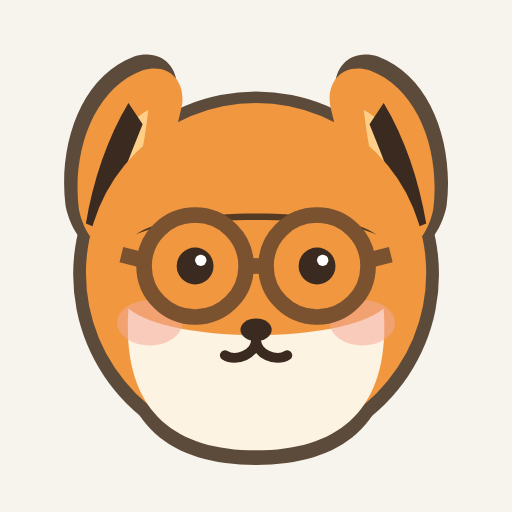
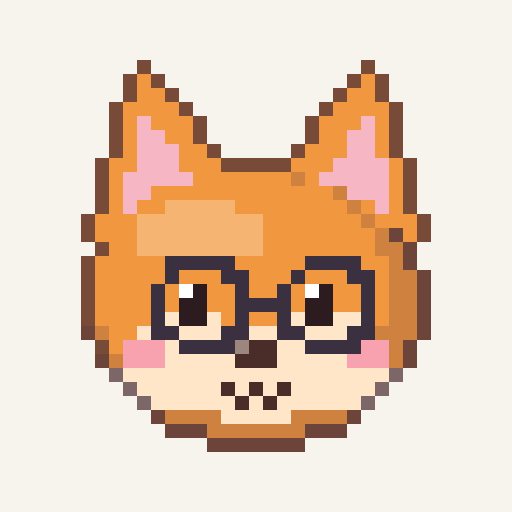
픽셀 화면 이동 매끄럽게, 앱 아이콘 도트로
- 걷는 도중 목적지가 바뀌면 지금 자리에서 이어 걷는다 (가던 칸 처음으로 되돌아가 튕기던 문제)
- 목적지는 두 번 연달아 같게 읽혔을 때만 바꾼다 (자리 두 곳 사이에서 왔다 갔다 하던 문제)
- 길을 못 찾으면 순간이동하지 않고 제자리에서 다음 판단을 기다린다
- 보는 방향은 실제로 움직이는 쪽으로, 퇴근·점심 때는 엘리베이터까지 걸어가서 사라진다
- 측정(산책+회의 60초): 한 프레임 큰 이동 202→53회(최대 368→14.5px), 방향 반전 358→95회
- 앱 아이콘·파비콘을 픽셀 사장님(안경 쓴 여우) 얼굴로 교체 (buildHead 추가)

Claude-Session: https://claude.ai/code/session_011mdzGhoRQRMpyoyZJmjdHo

diff --git a/index.html b/index.html
@@ -14206,14 +14206,26 @@ function fixGoal(F,a,g){
 }
 function setGoal(F,a,g,now){
   if(sameGoal(a.goal,g)) return;
-  fixGoal(F,a,g); a.goal=g;
+  fixGoal(F,a,g);
   var target = g.seat ? { c:a.seat.c, r:a.seat.r } : { c:g.c, r:g.r };
-  var from = a.sitting ? { c:a.seat.c, r:a.seat.r } : currentTile(a);
+  var walking = !!a.path, from;
+  if(a.sitting) from = { c:a.seat.c, r:a.seat.r };
+  else if(walking) from = a.path[Math.min(a.step+1, a.path.length-1)];     // 가던 칸에서 이어 간다
+  else from = currentTile(a);
   var path = PO.bfs({c:from.c,r:from.r}, target, F.map);
-  if(!path || path.length<2){ arrive(a); return; }
-  a.path=path; a.step=0; a.stepStart=now; a.fromSeat=a.sitting; a.sitting=false; a.onFurn=false;
+  if(!path){ return; }                                                     // 길이 없으면 제자리에서 다음 판단을 기다린다
+  a.goal=g;
+  if(walking) path.unshift({c:from.c,r:from.r});                           // 첫 걸음은 지금 자리 → 가던 칸
+  if(path.length<2 && !walking && !a.sitting){ var p=goalPos(a,g), d=Math.abs(p.x-a.x)+Math.abs(p.feet-a.feet); if(d<2){ arrive(a); return; } path=[from,from]; }
+  if(path.length<2) path=[from,from];
+  // 지금 서 있는 곳(픽셀 좌표)에서 첫 칸까지 한 걸음 걷고, 그다음부터 칸을 따라간다
+  a.segA = a.sitting ? { x:a.seat.seatX, feet:a.seat.seatFeet } : { x:a.x, feet:a.feet };
+  var first = tilePos(a, path[1]); if(path.length===2) first = goalPos(a,g);
+  var dist = Math.abs(first.x-a.segA.x)+Math.abs(first.feet-a.segA.feet);
+  a.firstMs = Math.max(60, Math.min(a.stepMs*1.5, a.stepMs*dist/T));
+  a.path=path; a.step=0; a.stepStart=now; a.sitting=false; a.onFurn=false;
 }
-function placeAt(F,a,g){ fixGoal(F,a,g); a.goal=g; a.path=null; arrive(a); }
+function placeAt(F,a,g){ fixGoal(F,a,g); a.goal=g; a.path=null; a.pend=null; arrive(a); }
 function arrive(a){
   var g=a.goal; a.path=null; a.frame=0;
   if(!g) return;
@@ -14225,16 +14237,27 @@ function arrive(a){
 function step(a,now){
   if(now>a.nextBlink){ a.blinkUntil=now+150; a.nextBlink=now+2400+Math.random()*3600; }
   if(!a.path) return;
-  var k=(now-a.stepStart)/a.stepMs;
-  while(k>=1&&a.step<a.path.length-1){ a.step++; a.stepStart+=a.stepMs; k-=1; }
+  var dur=(a.step===0)?a.firstMs:a.stepMs, k=(now-a.stepStart)/dur;
+  while(k>=1&&a.step<a.path.length-1){ a.stepStart+=dur; a.step++; dur=a.stepMs; k=(now-a.stepStart)/dur; }
   if(a.step>=a.path.length-1){ arrive(a); return; }
   var t0=a.path[a.step], t1=a.path[a.step+1], A=tilePos(a,t0), Bp=tilePos(a,t1);
-  if(a.step===0 && a.fromSeat) A={ x:a.seat.seatX, feet:a.seat.seatFeet };
+  if(a.step===0 && a.segA) A=a.segA;
   if(a.step===a.path.length-2) Bp=goalPos(a,a.goal);
   a.x=A.x+(Bp.x-A.x)*k; a.feet=A.feet+(Bp.feet-A.feet)*k;
-  a.dir = t1.c>t0.c?'right' : t1.c<t0.c?'left' : t1.r<t0.r?'up' : 'down';
+  var ddx=Bp.x-A.x, ddy=Bp.feet-A.feet;
+  if(Math.abs(ddx)+Math.abs(ddy)>1) a.dir = Math.abs(ddx)>=Math.abs(ddy) ? (ddx>0?'right':'left') : (ddy<0?'up':'down');
   a.frame=[1,0,2,0][Math.floor(now/a.stepMs*2)%4]; a.tile={c:t0.c,r:t0.r};
   if(a.leaveUntil && now>a.leaveUntil && a.leaving){ a.visible=false; a.leaving=false; a.path=null; }
+}
+
+// 같은 목적지가 두 번 연달아 읽혀야 받아들인다
+function goalKey(g){ return g.seat ? 'seat' : g.c+','+g.r; }
+function stable(a,g){
+  var k=goalKey(g);
+  if(a.goal && !a.goal.seat && !g.seat && a.goal.wantC===g.c && a.goal.wantR===g.r){ a.pend=null; return false; }
+  if(a.goal && a.goal.seat && g.seat){ a.pend=null; return false; }
+  if(a.pend===k){ a.pend=null; return true; }
+  a.pend=k; return false;
 }
 
 // ---- SVG 상태 읽기 (초당 여러 번) ----
@@ -14260,21 +14283,21 @@ function poll(F,now){
     var wasAway=a.svgAway; a.svgAway = present && away;
     if(present && p){
       var g=mapGoal(F,a,p.x,p.y);
-      a.stepMs=300;
-      if(!a.visible){ a.visible=true; a.leaving=false; placeAt(F,a,g); }
-      else { a.leaving=false; setGoal(F,a,g,now); }
+      if(a.leaving){ a.stepMs=300; }
+      if(!a.visible){ a.visible=true; a.leaving=false; a.stepMs=300; placeAt(F,a,g); }
+      else if(stable(a,g)){ a.leaving=false; a.stepMs=300; setGoal(F,a,g,now); }
     } else if(a.visible && !a.leaving){
       // 자리에서 바로 사라진 것과 걸어 나가다 사라진 것을 구분한다.
       // 걸어 나가던 중이면 엘리베이터까지 마저 걸어가서 사라진다
       var walkOff = a.staff ? wasAway : !!a.path;
       if(!walkOff){ a.visible=false; a.goal=null; }
-      else { a.leaving=true; a.stepMs=200; a.leaveUntil=now+14000; setGoal(F,a,{ c:F.lobby.c, r:F.lobby.r, face:'down' },now); }
+      else { a.leaving=true; a.stepMs=170; a.leaveUntil=now+24000; a.pend=null; setGoal(F,a,{ c:F.lobby.c, r:F.lobby.r, face:'down' },now); }
     }
     readBubble(a, F.bubble(id));
   }
   var rh=byId(F.robotEl);
   if(rh){ var rp=B.currentXY(rh);
-    if(rp){ var rg=mapGoal(F,F.robot,rp.x,rp.y); if(!F.robot.goal) placeAt(F,F.robot,rg); else setGoal(F,F.robot,rg,now); }
+    if(rp){ var rg=mapGoal(F,F.robot,rp.x,rp.y); if(!F.robot.goal) placeAt(F,F.robot,rg); else if(stable(F.robot,rg)) setGoal(F,F.robot,rg,now); }
     readBubble(F.robot, byId(F.robotBub)); }
   var lo=byId(F.light); F.lightDim = lo ? (parseFloat(getComputedStyle(lo).opacity)||0) : 0;
   if(F.key==='3'){

diff --git a/assets/pixoffice.js b/assets/pixoffice.js
@@ -774,6 +774,11 @@ function buildChar(p, dir, frame, blink){
   if(dir==='right'){ var m=cv(SPR_W,SPR_H), mg=m.getContext('2d'); mg.translate(SPR_W,0); mg.scale(-1,1); mg.drawImage(c,0,0); return m; }
   return c;
 }
+// 머리만 (앱 아이콘 등에 쓴다)
+function buildHead(p){
+  var c=cv(SPR_W,SPR_W), g=c.getContext('2d'), K=KIND[p.kind]; g.translate(1,SPR_TOP);
+  drawHead(g,K,p,'down',false); outline(c,'#3a2436'); return c;
+}
 function buildSprites(p){
   p.pantsC = p.pants || PANTS[hash(p.id)%PANTS.length];
   var S={}; ['down','up','left','right'].forEach(function(d){ S[d]=[0,1,2].map(function(f){ return buildChar(p,d,f,false); }); });
@@ -1237,7 +1242,7 @@ window.PixOffice={
   bg:MAP3.bg, things:MAP3.things, blocked:MAP3.blocked, noCross:MAP3.noCross, MAP3:MAP3, MAP2:MAP2, F2LOOK:F2LOOK,
   SIGNS:SIGNS, SWITCH:SWITCH, AQ:AQ, WIN:WIN, CLOCK:CLOCK,
   STAFF:STAFF, SEATS:SEATS, VISITORS:VISITORS, KIND:KIND, SPR_W:SPR_W, SPR_H:SPR_H, SPR_TOP:SPR_TOP,
-  buildSprites:buildSprites, BALLOONS:BALLOONS, pRobot:pRobot, bfs:bfs,
+  buildSprites:buildSprites, buildHead:buildHead, BALLOONS:BALLOONS, pRobot:pRobot, bfs:bfs,
   phase:phase, SKY:SKY, TINT:TINT, drawWindow:drawWindow, drawClock:drawClock, drawFish:drawFish, drawBigTank:drawBigTank
 };
 })();
